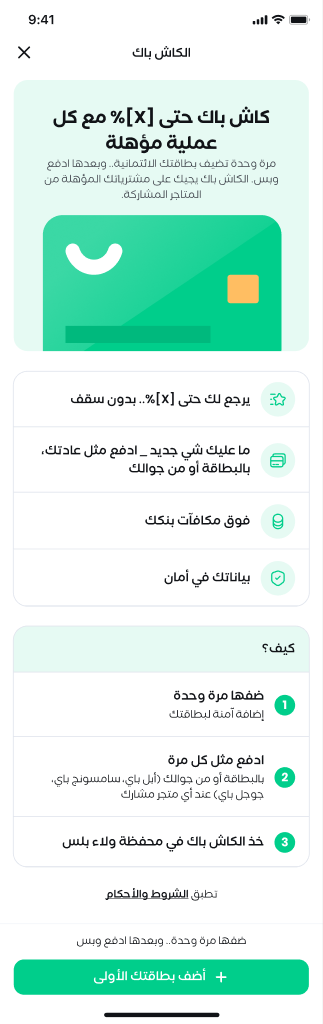
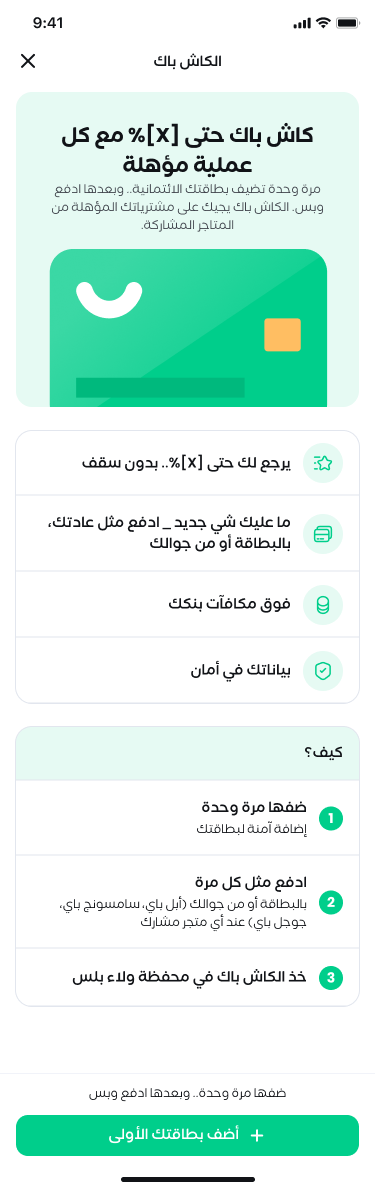
QA gate: headless pixel-diff over all 20 frames - PASS
- scripts/qa-diff.mjs: Playwright captures every screen/state/sheet at
  true resolution, pixelmatch (AA-aware) vs design/refs, heatmaps out
- Found + fixed two reference-scale artifacts from Figma export 1024px
  cap: intro ref re-stitched full-res from sub-node renders (orig kept),
  market-before DPR-matched in the script
- Result: 19/20 screens at the glyph-stroke floor (1.29-4.11 percent),
  heatmap-verified zero structural drift; add-card ~63 percent by design
  (reference contains the IFRAME annotation wash replaced by real fields)

diff --git a/README.md b/README.md
@@ -45,6 +45,15 @@ phone frame. `?linked=1` / `?linked=0` forces the before/after card-link state
   `?onion=<refId>` gives a 50% onion skin. Size the window to the ref's exact
   frame (e.g. 375×1034 for the Market before-state) or the lower half compares
   the wrong rows. Dev builds only.
+- **QA gate**: `node scripts/qa-diff.mjs` (dev server running) captures all 20
+  screens/states/sheets with headless Chromium at true resolution and
+  pixelmatch-diffs them (AA-aware) against `design/refs`, writing heatmaps to
+  `design/qa/`. Accepted floor: ≤~4% glyph-stroke noise (browser vs Figma font
+  rasterization); the add-card screen reads ~63% by design — its reference
+  contains the IFRAME annotation wash we intentionally replace with real
+  fields. Note: Figma's `get_screenshot` caps exports at 1024px — the intro
+  ref is stitched from sub-node renders (`1_10239.orig-1024cap.png` kept), and
+  the script DPR-matches any ref still narrower than 375.
 
 ## Conventions (important before editing)
 
